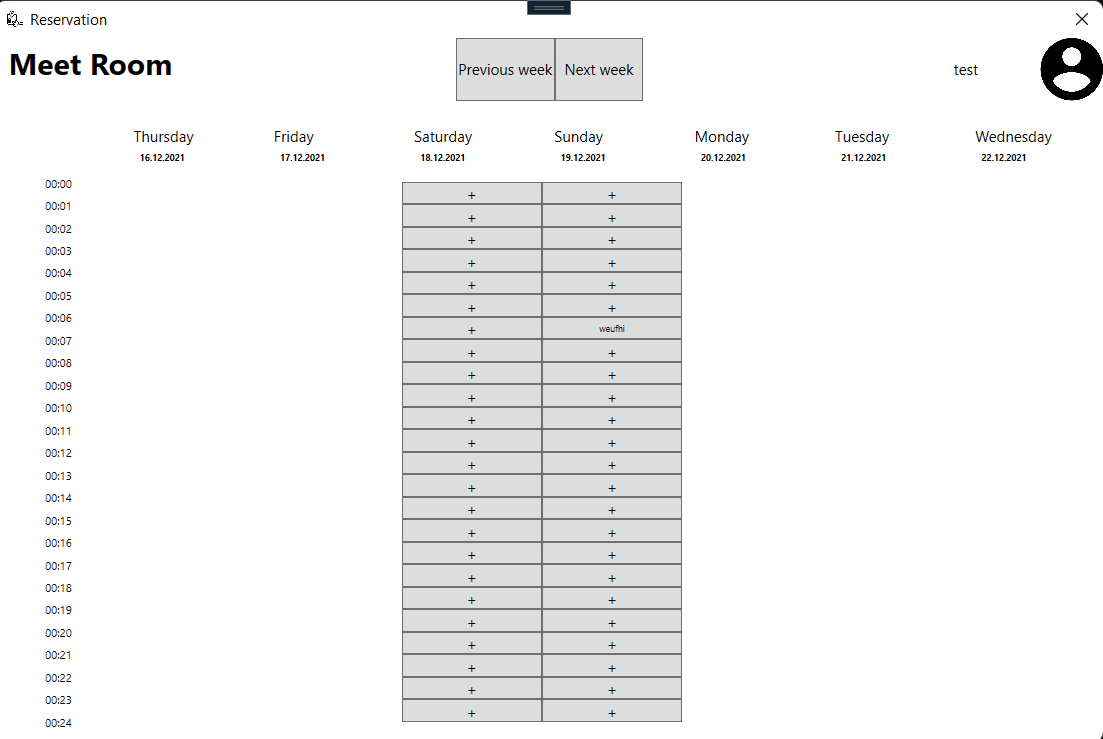
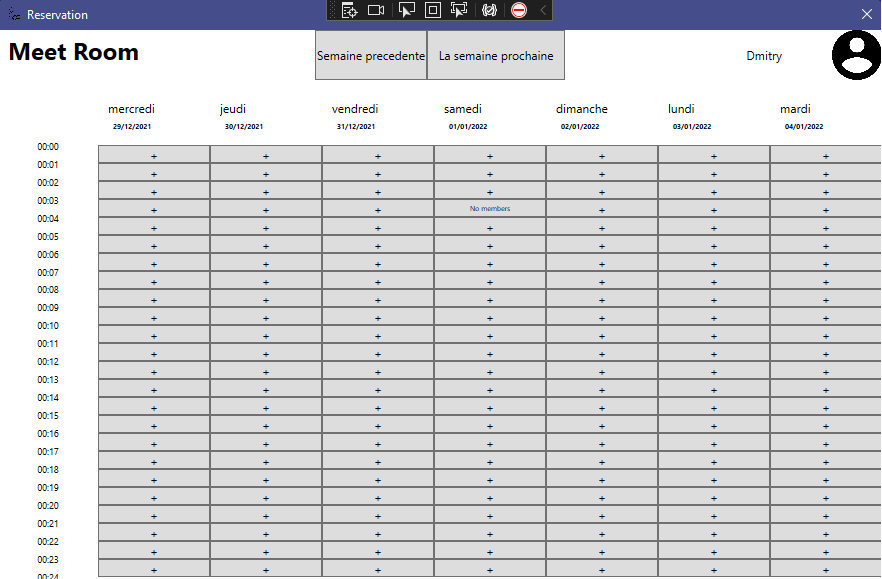
Main edit

diff --git a/Readme.md b/Readme.md
@@ -1,14 +1,15 @@
 ### Курсовая работа по предмету "Алгоритмы и структуры данных".
-#### Выполнил: студент группы ИСТбд-22 Юдин Владимир
+#### Выполнил: студент группы ИСТбд-22 Величко Дмитрий
 
 ##### Общее задание:
 Необходимо разработать систему для бронирования переговорок, которая должна представлять из себя таблицу, где в качестве колонок числа и дни недели, а в качестве строк почасовой список (формат 00:00-00:24)
 ![alt image](Resources/img/main.png)
 
 ### Особенности варианта:
-	1. Хранить данные пользователя,карточек событий и другие данные в Java HashMap(В С# - Dictionary). Списки должны создаваться и заполняться тестовыми данными при старте приложения.
-	2. Фон страниц должен быть белого цвета (background)
-	3. Детали события карточки отображаются на отдельной странице
-	4. Добавить невозможность добавлять карточки в будние дни (с понедельника - по пятницу), см. скриншот
+	1. Хранить данные пользователя,карточек событий и другие данные в Java ArrayList списках. Списки должны создаваться и заполняться тестовыми данными при старте приложения.
+	2. Фон страниц должен быть белого цвета (background).
+	3. Детали события карточки отображаются в всплывающем окне.
+	4. Добавлена возможность выбора языка отображения (RU/FR).
+ см. скриншот
 
 Запуск осуществляется из среды разработки Visual Studio. Версия .NET 5.0, C# 9.0
